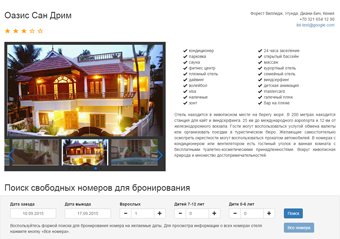
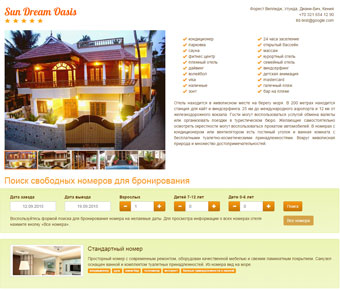
1. Исправлены ошибки 2. Добавлены картинки

diff --git a/frontend/views/hotel/booking.php b/frontend/views/hotel/booking.php
@@ -93,7 +93,7 @@ $this->registerJs("
             });
             parent.find('input[type=checkbox]').each(function(index, el){
                 if (chechbox == el) return;
-                $.each($(el).data('disable').split(' '), function(i, elebackground-colorm){
+                $.each($(el).data('disable').split(' '), function(i, elem){
                     if ($(el).is(':checked')) {
                         enable[elem] = enable[elem] && false;
                     }
@@ -142,6 +142,7 @@ $this->title = \Yii::t('frontend', 'Room booking');
 			<?php endif; ?>
 		</div>
 		<div class="col-sm-8">
+			<?php if ($hotel->category > 0) : ?>
 			<span class="hotel_stars">
 			<?php foreach (range(1, 5) as $i): ?>
 				<?php if ($i <= $hotel->category) : ?>
@@ -151,6 +152,7 @@ $this->title = \Yii::t('frontend', 'Room booking');
 				<?php endif ?>
 			<?php endforeach; ?>
 			</span>
+		<?php endif; ?>
 
 			<h3>
 				<?= $hotel->{'title_' . $l} ?>

diff --git a/common/models/Currency.php b/common/models/Currency.php
@@ -181,13 +181,13 @@ class Currency extends \yii\db\ActiveRecord
 
         if ($this->code == 'USD') {
             if ($to == 'USD') {
-                return $x;
+                return number_format(round($x, 2), 2, '.', '');
             } else {
                 $v = $x * $rates[$to];
             }
         } else {
             if ($this->code == $to) {
-                return $x;
+                return number_format(round($x, 2), 2, '.', '');
             }
             if ($to == 'USD') {
                 $v = $x / $rates[$this->code];
@@ -199,7 +199,8 @@ class Currency extends \yii\db\ActiveRecord
         if ($coef) {
             $v = $v * (1 + $coef / 100);
         }
-        return round($v, 2);
+        $v = round($v, 2);
+        return number_format($v, 2, '.', '');
     }
 
     /**

diff --git a/console/controllers/AdminController.php b/console/controllers/AdminController.php
@@ -22,7 +22,7 @@ class AdminController extends Controller
 
     public function actionDo() {
         $c = \common\models\Currency::find()->where(['code' => 'EUR'])->one();
-        echo $c->convertTo(100,'EUR',5)."\n";
+        echo $c->convertTo('100.657345','EUR',5)."\n";
     }
 
     public function actionChangeAdminPassword($id)

diff --git a/frontend/controllers/HotelController.php b/frontend/controllers/HotelController.php
@@ -137,7 +137,7 @@ class HotelController extends \yii\web\Controller
 				}
 			}
 
-			throw new \yii\web\HttpException(456, 'Unrecoverable Error');
+			throw new \yii\web\BadRequestHttpException('Validation Error');
 			/*return $this->render('booking_error', [
 				'orderForm' => $orderForm,
 				'orderItem' => $orderItem,
